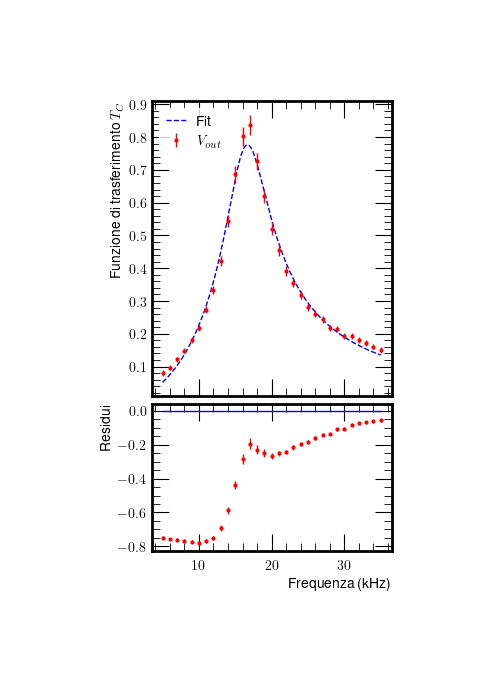
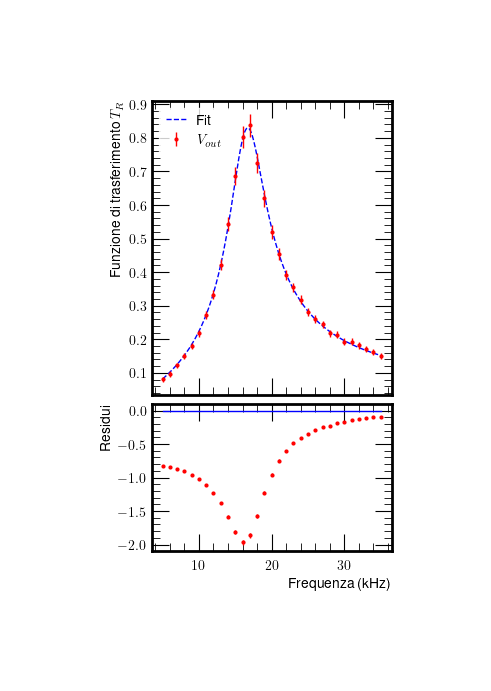
new mod prof

diff --git a/emilio/test.py b/emilio/test.py
@@ -1,0 +1,114 @@
+import numpy as np
+import pandas as pd
+import matplotlib.pyplot as plt
+from scipy.optimize import curve_fit
+
+
+filename = 'RCF_PB.txt'
+
+df = pd.read_csv(filename, delimiter='\t', decimal=',')
+
+frequenze = df['f_gen_KHz'].values * 1e3 #Hz
+
+#Tensioni
+Vin = df['Vin'].values
+Vout = df['Vout'].values
+#Attenuazione
+A = Vout / Vin
+
+#Fase normalizzata tra 0 e 1
+fase_us = df['Fase_us'].values * 1e-6  #sec
+fase_norm = 2 * np.pi * frequenze * fase_us / (np.pi / 2.)
+
+#Scale
+scala_V = df['Scala_V'].values
+scala_us = df['Scala_us'].values * 1e-6
+
+#ERRORI
+Vin_err = scala_V[0] / 10 * 0.41
+Vout_err = scala_V / 10 * 0.41
+fase_err = 2 * np.pi * frequenze * scala_us / 10 * 0.41 * np.sqrt(2) / (np.pi / 2)
+#sigma_A = A * np.sqrt((0.04 * scala_V / Vin)**2 + (0.04 * scala_V / Vout)**2)
+#sigma_A = A * np.sqrt((0.041 / Vin)**2 + (0.041 * scala_V / Vout)**2 + (1.2/100 * Vin)**2 + (1.2/100 * Vout)**2)
+
+low_freq = frequenze < 2100           
+high_freq = frequenze > 10000          
+mid_freq = ~(low_freq | high_freq)  
+sigma_A = np.zeros_like(A)
+
+sigma_A_ext = A * np.sqrt((0.041 / Vin)**2 + (0.041 * scala_V / Vout)**2 + (1.2/100 * Vin)**2 + (1.2/100 * Vout)**2)
+sigma_A_mid = A * np.sqrt((0.041 / Vin)**2 + (0.041 * scala_V / Vout)**2)
+
+sigma_A[low_freq] = sigma_A_mid[low_freq]
+sigma_A[high_freq] = sigma_A_ext[high_freq]
+sigma_A[mid_freq] = sigma_A_mid[mid_freq]
+
+print(sigma_A[low_freq])
+
+#FIT NON LINEARE
+f_fitspace = np.linspace(min(frequenze), max(frequenze), 10000)
+def fit_attenuazione(f, ft):
+    return 1 / np.sqrt(1 + (f / ft)**2)
+
+#def fit_fase(f, ft_phi):
+#    return -f / ft_phi
+def fit_fase(f, ft_phi):
+    return np.arctan(f / ft_phi) / (np.pi / 2)
+
+parametri, pcov = curve_fit(fit_attenuazione, frequenze, A, sigma=sigma_A, absolute_sigma=True, p0=[5100])
+ft_fit = parametri[0]
+ft_err = np.sqrt(np.diag(pcov))[0]
+print(f"Frequenza di taglio ft = {ft_fit:.2f} ± {ft_err:.2f} Hz")
+
+parametri_phi, pcov_phi = curve_fit(fit_fase, frequenze, fase_norm, sigma=fase_err, absolute_sigma=True, p0=[1e5])
+ft_phi = parametri_phi[0]
+ft_phi_err = np.sqrt(np.diag(pcov_phi))[0]
+print(f"Frequenza di taglio (fase) ft_phi = {ft_phi:.2f} ± {ft_phi_err:.2f} Hz")
+
+#MODELLO FITTATO
+modello_A = fit_attenuazione(f_fitspace, ft_fit)
+modello_A_upper = fit_attenuazione(f_fitspace, ft_fit + ft_err)
+modello_A_lower = fit_attenuazione(f_fitspace, ft_fit - ft_err)
+
+modello_phi = fit_fase(f_fitspace, ft_phi)
+modello_phi_upper = fit_fase(f_fitspace, ft_phi + ft_phi_err)
+modello_phi_lower = fit_fase(f_fitspace, ft_phi - ft_phi_err)
+
+#GRAFICO
+plt.figure(figsize=(10, 6))
+plt.axhline(1 / np.sqrt(2), color='red', linestyle='--', label='1/√2')
+plt.axhline(0.5, color='brown', linestyle='--', label='π/4')
+plt.errorbar(frequenze, A, yerr=sigma_A, fmt='o', ms=3, color='purple', label='Attenuazione A')
+plt.plot(f_fitspace, modello_A, color='orange', label=(f"Fit A: ft= ({ft_fit:.2f} ± {ft_err:.2f}) Hz"))
+plt.fill_between(f_fitspace, modello_A_lower, modello_A_upper, color='orange', alpha=0.2, label='Incertezza fit A')
+
+plt.errorbar(frequenze, fase_norm, yerr=fase_err, fmt='o', ms=3, color='green', label='Fase φ normalizzata')
+plt.plot(f_fitspace, modello_phi, color='blue', label=(f"Fit φ: ft_phi= ({ft_phi:.2f} ± {ft_phi_err:.2f}) Hz"))
+plt.fill_between(f_fitspace, modello_phi_lower, modello_phi_upper, color='blue', alpha=0.2, label='Incertezza fit φ')
+
+plt.xscale('log')
+plt.xlabel('log10(f) [Hz]')
+plt.ylabel('A [V/V] con φ-->1')
+#plt.title('Fit non lineare attenuazione e fase circuito RC')
+plt.grid(True, which='both', linestyle='--', alpha=0.3)
+plt.legend()
+plt.tight_layout()
+plt.show()
+
+
+#RESIDUI
+residui = A - fit_attenuazione(frequenze, ft_fit)
+residui_phi = fase_norm - fit_fase(frequenze, ft_phi)
+
+plt.figure(figsize=(10, 4))
+plt.axhline(0, color='gray', linestyle='--')
+plt.errorbar(frequenze, residui, yerr=sigma_A, fmt='o', ms=3, color='purple', label='Residui attenuazione')
+plt.errorbar(frequenze, residui_phi, yerr=fase_err, fmt='o', ms=3, color='green', label='Residui fase')
+plt.xscale('log')
+plt.xlabel('Frequenza [Hz]')
+plt.ylabel('Residui')
+plt.title('Residui dei fit')
+plt.grid(True, which='both', linestyle='--', alpha=0.6)
+plt.legend()
+plt.tight_layout()
+plt.show()

diff --git a/RLC freq/prof/RLC_Rres_v0.py b/RLC freq/prof/RLC_Rres_v0.py
@@ -54,7 +54,7 @@ def fitf_C(x, A, B, C):
 
 def fitf_R(x, A, B, C):
     omega = 2.0 * np.pi * x * 1e3  # input in kHz
-    fitval = A / np.sqrt(1+C**2*(omega**2/B**2-B**2/omega**2)**2)
+    fitval = A / np.sqrt(1+C**2*(omega/B-B/omega)**2)
     return fitval
 
 def fitchi2(i,j,k):
@@ -142,7 +142,7 @@ eVin = np.sqrt((letturaV * Vdiv_in)**2 + (errscalaV * Vin)**2)
 
 # Calculate the transfer function
 TR = Vo / Vin
-eTR = TR * np.sqrt((eVo / Vo)**2 + (eVin / Vin)**2) ######## ??????? + 2 * (errscalaV**2))
+eTR = TR * np.sqrt((eVo / Vo)**2 + (eVin / Vin)**2+ 2 * (errscalaV**2))
 
 # Plot Vin and Vout vs. f e the transfer function vs. f
 
@@ -154,7 +154,7 @@ ax[0].set_ylabel(r'Voltaggio (V)')
 
 ax[1].errorbar(fr,TR,yerr=eTR, fmt='o', label=r'$T=\frac{V_{out}}{V{in}}$',ms=2,color='red')
 ax[1].legend(prop={'size': 10}, loc='best')
-ax[1].set_ylabel(r'Funzione di trasferimento $T_C$')
+ax[1].set_ylabel(r'Funzione di trasferimento $T_R$')
 ax[1].set_xlabel(r'Frequenza (kHz)')
 ax[1].yaxis.set_ticks_position('right')
 ax[1].yaxis.set_label_position('right')
@@ -201,7 +201,7 @@ ax[0].plot(x_fit, fitf_R(x_fit, *popt), label='Fit', linestyle='--', color='blac
 ax[0].plot(x_fit,fitf_R(x_fit,Ainit,Binit,Cinit), label='init guess', linestyle='dashed', color='green')
 ax[0].errorbar(fr,TR,yerr=eTR, fmt='o', label=r'$T=\frac{V_{out}}{V{in}}$',ms=2,color='red')
 ax[0].legend(loc='upper left')
-ax[0].set_ylabel(r'Funzione di trasferimento $T_C$')
+ax[0].set_ylabel(r'Funzione di trasferimento $T_R$')
 #ax[0].set_xticks([20,30,40,50])
 
 ax[1].errorbar(fr,residuA,yerr=eTR, fmt='o', label=r'Residui$',ms=2,color='red')
@@ -303,7 +303,7 @@ ax[0].plot(x_fit, fitf_R(x_fit, A_chi[argchi2_min[0]],B_chi[argchi2_min[1]],C_ch
 #ax[0].plot(x_fit,fitf2(x_fit,Ainit,Binit,Cinit), label='init guess', linestyle='dashed', color='green')
 ax[0].errorbar(fr,TR,yerr=eTR, fmt='o', label=r'$V_{out}$',ms=2,color='red')
 ax[0].legend(loc='upper left')
-ax[0].set_ylabel(r'Funzione di trasferimento $T_C$')
+ax[0].set_ylabel(r'Funzione di trasferimento $T_R$')
 #ax[0].set_xticks([20,30,40,50])
 
 ax[1].errorbar(fr,residuA,yerr=eTR, fmt='o', label=r'Residui$',ms=2,color='red')

diff --git a/test.py b/test.py
@@ -1,0 +1,39 @@
+import matplotlib.pyplot as plt
+
+# Dati (ultimi due valori convertiti in kHz)
+methods = [
+    'metrix', 'A, loc', 'phi, loc', 
+    'Bode 1 param', 'Bode 2 param', 
+    'A, lin 2 param', 'phi, lin 2 param', 'A, lin 1 param', 'phi, lin 1 param', 
+    'A, nl', 'phi, nl'
+]
+
+values = [
+    5.52, 5.2, 5.5, 
+    5.3, 4.6, 
+    5.205, 5.297, 5.173, 5.490,
+    5.190, 5.500
+]
+
+errors = [
+    0.03, 0.1, 0.3, 
+    0.2, 0.4, 
+    0.009, 0.004, 0.009, 0.040,
+    20 / 1000, 20 / 1000
+]
+
+x_medio1 = 5.275
+
+# Creazione del grafico con barre di errore
+fig, ax = plt.subplots()
+x = range(len(methods))
+ax.errorbar(x, values, yerr=errors, fmt='o', capsize=5)
+ax.errorbar(4, 4.6, yerr=0.4, fmt='o', capsize=5, color='red')
+ax.axhline(y=x_medio1, color='green', linestyle='--', label='Media 5.287 ± 0.003 kHz')
+ax.set_xticks(x)
+ax.set_xticklabels(methods, rotation=45, ha='right')
+ax.set_ylabel('Frequenza di taglio (kHz)')
+ax.set_title('Confronto delle frequenze di taglio')
+ax.legend()
+plt.tight_layout()
+plt.show()

diff --git a/emilio/linearizzatophi.py b/emilio/linearizzatophi.py
@@ -78,11 +78,11 @@ ax1.plot(x_vis, y_vis, label='Fit a un parametro: $f_t=$ {:.0f} $\pm$ {:.0f}'.fo
 
 ax1.plot(x_vis, y_vis2, label='Fit a due parametri: $f_t=$ {:.0f} $\pm$ {:.0f}'.format(f_t_2, err_f_t_2), color='red')
 
-ax1.set_xlabel(r'$\nu^2$ [Hz]')
+ax1.set_xlabel(r'$\nu$ [Hz]')
 ax1.set_ylabel(r'$\tan(\Delta\phi)$ [rad]')
 
 ax2.errorbar(f, residui, yerr=err_dphi, fmt='o', color='green', label='Residui fit a un parametro')
-ax2.errorbar(f, residui2, yerr=err_dphi, fmt='o', color='red', label='Residui fit a 2 parametri')
+ax2.errorbar(f, residui2, yerr=err_dphi, fmt='o', color='red', label='Residui fit a due parametri')
 ax2.axhline(0, c='orange', linestyle='-')
 ax2.grid(True)
 ax2.legend()

diff --git a/RLC freq/prof/RLC_Cres_v2.py b/RLC freq/prof/RLC_Cres_v2.py
@@ -105,7 +105,7 @@ NK = 20
 # Input file name
 file = 'RLC_Cres'   # seleziono per fit su C
 # file = 'RLC_Rres'   # seleziono per fit su R
-inputname = './Analisi RLC in frequenza Python/'+file+'.txt'
+inputname = file+'.txt'
 
 # Frequency limits for the fit function (in kHz)
 frfit0 = 10.0
@@ -142,7 +142,7 @@ eVin = np.sqrt((letturaV * Vdiv_in)**2 + (errscalaV * Vin)**2)
 
 # Calculate the transfer function
 TR = Vo / Vin
-eTR = TR * np.sqrt((eVo / Vo)**2 + (eVin / Vin)**2) ######## ??????? + 2 * (errscalaV**2))
+eTR = TR * np.sqrt((eVo / Vo)**2 + (eVin / Vin)**2 + 2 * (errscalaV**2))
 
 # Plot Vin and Vout vs. f e the transfer function vs. f
 
